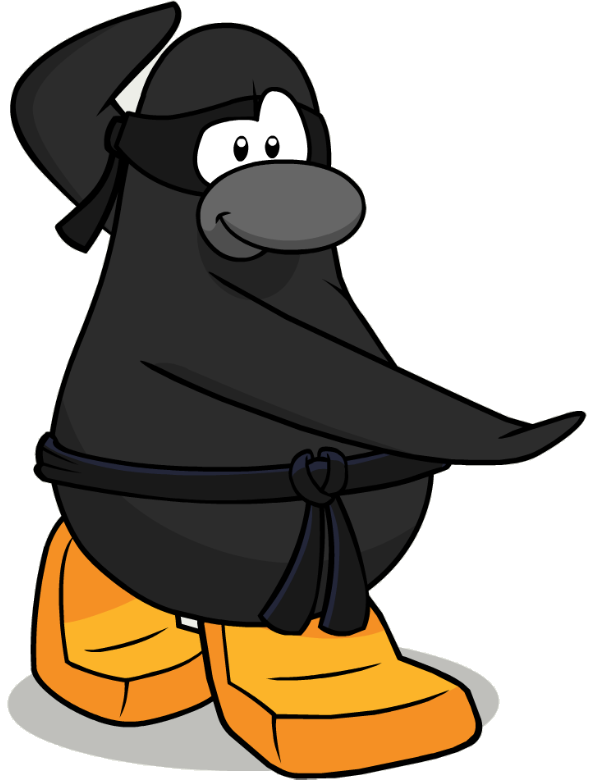
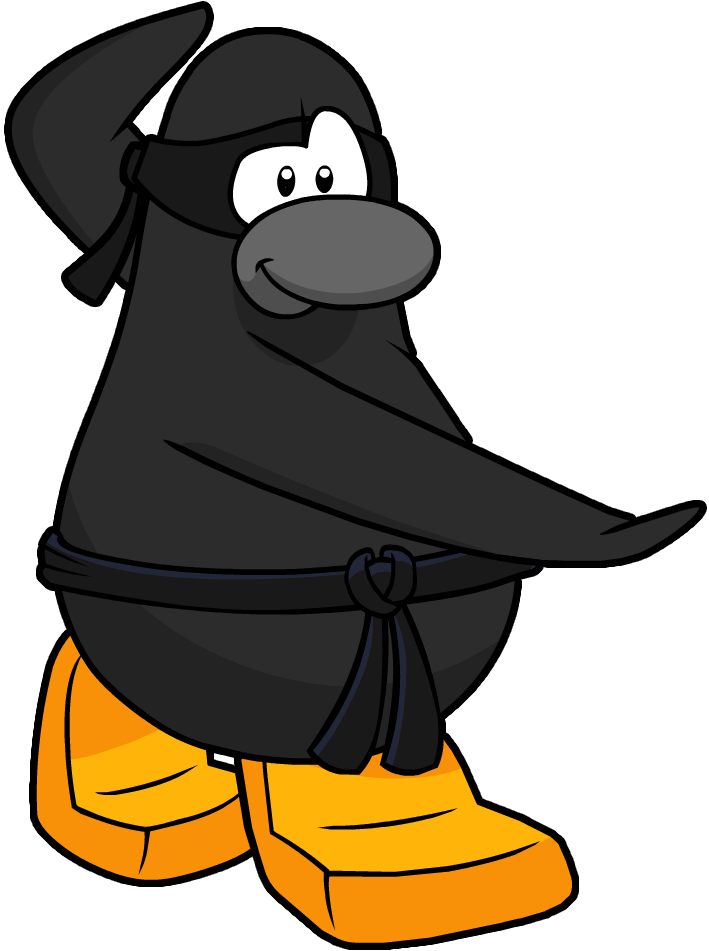
commit dojo

diff --git a/style.css b/style.css
@@ -1,11 +1,16 @@
   #game {
-    margin-top: 5%;
+    position: relative;
+    margin-top: 400px;
     margin-left: 0%;
+    background-color: #474747;
+    padding: 20px;
+    width: 1264px;
+    height: 180px;
   }
 
   #game button {
-    width: 10%;
-    padding: 10px;
+    width: 160px;
+    padding: 6px;
     color: white;
     border: none;
     cursor: pointer;
@@ -33,6 +38,7 @@
   }
   
   .img {
+    position: relative;
     width: 17%;
     height: 17%;
   }
@@ -41,13 +47,21 @@
     text-align: center;
   }
   
+  .tatame {
+    position: absolute;
+    width: 100%;
+    height: 100%;
+  }
+
   .ninja {
+    position: absolute;
     margin-left: 200px;
     width: 295px;
     height: 390px;
   }
 
   .sensei {
+    position: absolute;
     margin-left: 850px;
     width: 295px;
     height: 450px;

diff --git a/script.js b/script.js
@@ -2,7 +2,7 @@
     var vidasensei = 5
 
 function play(userChoice) {
-    const choices = ["agua", "fogo", "neve"];
+    const choices = ["água", "fogo", "neve"];
     const computerChoice = choices[Math.floor(Math.random() * 3)];
     
     let result;
@@ -10,9 +10,9 @@ function play(userChoice) {
     if (userChoice === computerChoice) {
       result = "Empate!";
     } else if (
-      (userChoice === "agua" && computerChoice === "fogo") ||
+      (userChoice === "água" && computerChoice === "fogo") ||
       (userChoice === "fogo" && computerChoice === "neve") ||
-      (userChoice === "neve" && computerChoice === "agua")
+      (userChoice === "neve" && computerChoice === "áqua")
     ) {
       vidasensei = vidasensei-1
       result = "Sensei possui " + vidasensei

diff --git a/index.html b/index.html
@@ -9,9 +9,9 @@
 </head>
 
 <body>
+  <img src="dojo.webp" class="tatame">
   <div class="align">
   <img src="Card_Jitsu_Logo.webp" alt="Card-Jitsu" class="img">
-  <br></br><br></br>
   </div>
   
   <div>
@@ -19,12 +19,13 @@
     <img src="sensei.png" alt="sensei" class="sensei">
   </div>
 
+  <br><br>
   <div id="game">
-    <button id="a" onclick="play('agua')">Água</button>
+    <button id="a" onclick="play('água')">Água</button>
     <button id="f" onclick="play('fogo')">Fogo</button>
     <button id="n" onclick="play('neve')">Neve</button>
+    <p id="result"></p>
   </div>
-  <div id="result"></div>
 
   <script src="script.js"></script>
 </body>
